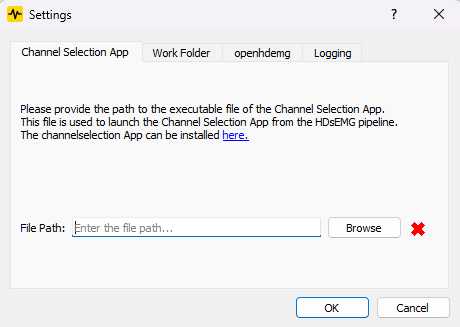
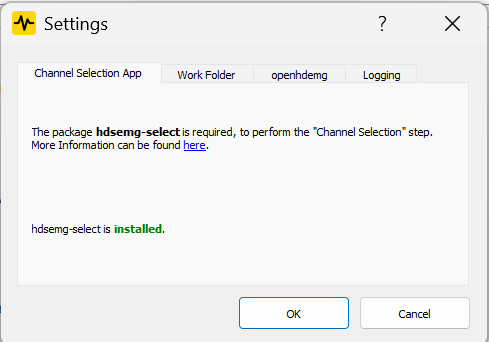
Update application_settings.md to enhance documentation for hdsemg-select and openhdemg installation

diff --git a/docs/general/application_settings.md b/docs/general/application_settings.md
@@ -7,17 +7,16 @@ The settings dialog can be accessed from the top menu bar under **Settings** -> 
 ![Settings Dialog](../img/settings/settings_dialog.png)
 
 ### Channel Selection App
-The **Channel Selection App** section allows you to specify the path to the external hdsemg-select application. This is required for the channel selection step in the processing pipeline.
-If the path is set correctly, the application will display a check icon next to the path. If the path is not set or incorrect, a warning icon will be displayed instead.
-The application also displays clear instructions on how to set the path if it is not set correctly.
+The **Channel Selection App** section allows you to manage the installation of [hdsemg-select](https://github.com/johanneskasser/hdsemg-select), an external application used for channel selection.
+By default, the application will install the latest version of hdsemg-select from PyPI. 
+
 
 ### Work Folder
 The **Work Folder** section allows you to specify the working directory of the application. This is the directory where all the data will be stored and processed. As soon as you open a file, the application will create a subdirectory in the working directory with the name of the file or folder. Detailed information can be found in the [Opening Data](../processing/opening_data.md) section.
 
-### Openhdemg Executable
-The **Openhdemg Executable** section allows you to specify the path to the openhdemg executable. This is required for the decomposition step in the processing pipeline.
-The application wants a path to the openhdemg virtual environment, which is the folder where the openhdemg executable is located. If the path is set correctly, the application will display a check icon next to the path. If the path is not set or incorrect, a warning icon will be displayed instead.
-More details about the installation of openhdemg can be found in the [Official Openhdemg Documentation](https://www.giacomovalli.com/openhdemg/quick-start/).
+### Openhdemg Installation
+hdsemg-pipe can install the [openhdemg](https://www.giacomovalli.com/openhdemg/) open source project automatically from PyPI. If the application is running 
+from the sources, you can install openhdemg by going to Settings > Preferences > openhdemg > Install openhdemg. More information about the project can be found here: [Official Openhdemg Documentation](https://www.giacomovalli.com/openhdemg/quick-start/).
 
 ### Logging Level
 The **Logging Level** section allows you to specify the logging level of the application. This is useful for debugging and troubleshooting purposes. The available logging levels are:
